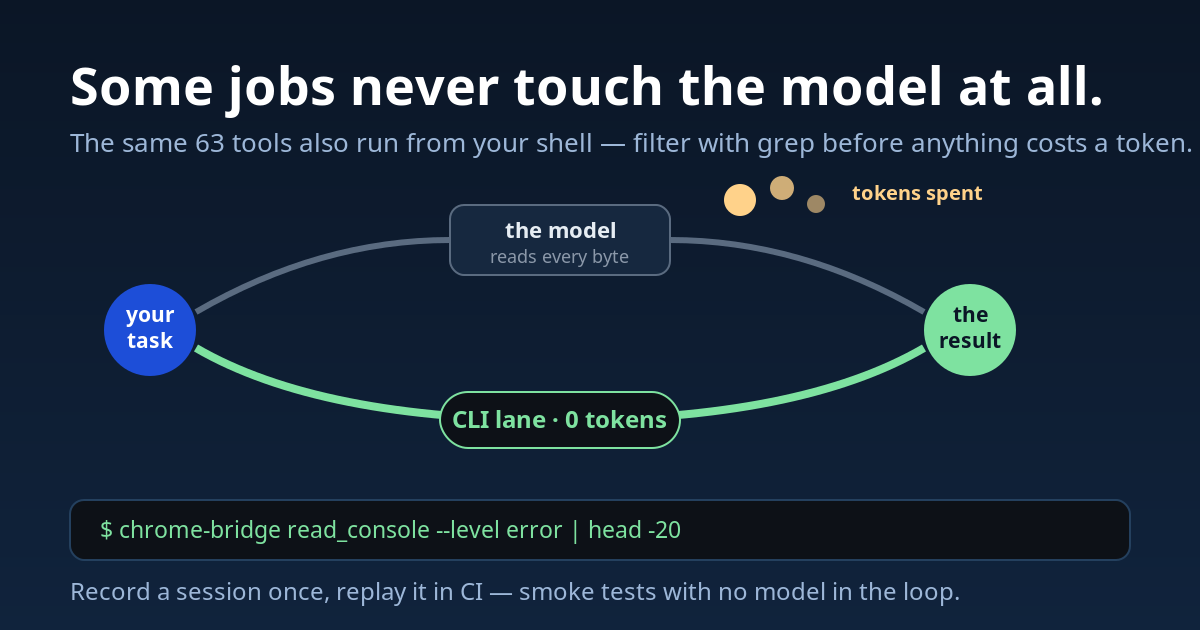
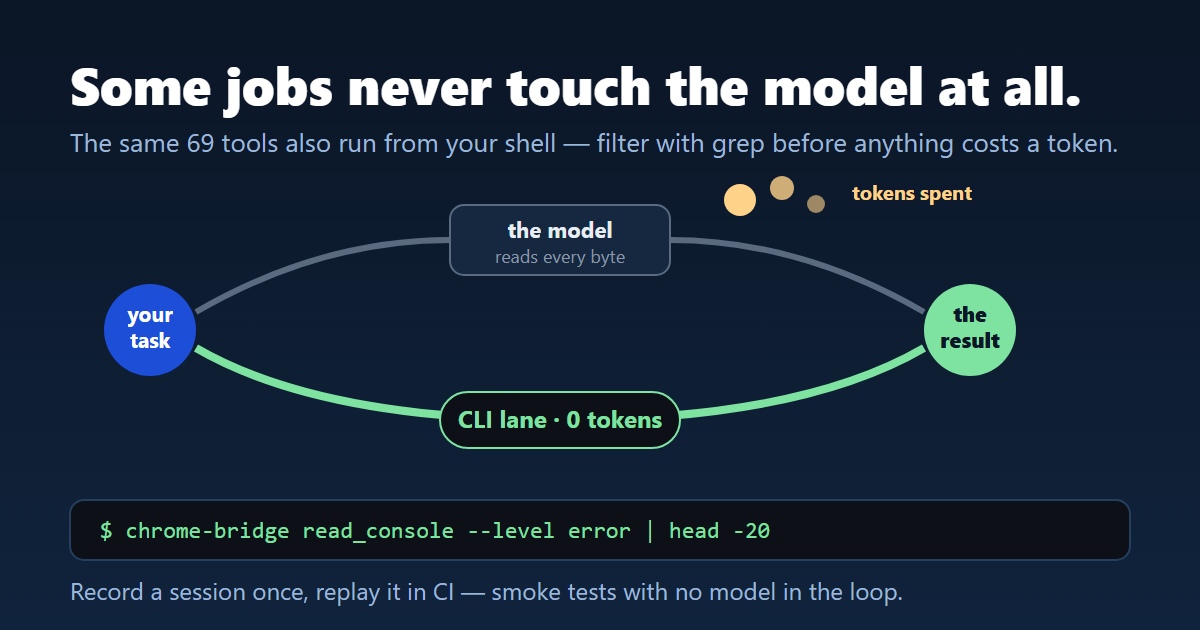
docs(readme): plugin and Web Store install first, 17/10 paired set, numbers from the code (69 tools, 46 default, 22 always loaded)
Quickstart starts from /plugin install --marketplace (also from a shell,
2.1.292+) and the Web Store; source, Windows, Chrome 135-137 and the double
registration move into <details>. The benchmark table cites the 17/10 set on
Claude Code 2.1.302 (2.0-5.2x fewer turns, 3.9-6.1x lower cost, 15/15
against 14/15), also in EFFICIENCY.md with the prompt-cache caveat. WebMCP
in the opening and in the comparison; comparison corrected for screencast,
perf_trace, heap_snapshot and Playwright MCP video. Cards 1, 3 and 4 redrawn
with the same numbers; configuration and troubleshooting tables folded.

diff --git a/README.md b/README.md
@@ -4,120 +4,158 @@
 
 ![License: MIT](https://img.shields.io/badge/license-MIT-green) ![Node 18+](https://img.shields.io/badge/node-%E2%89%A518-brightgreen) ![Chrome 135+](https://img.shields.io/badge/chrome-%E2%89%A5135-blue) ![Tests](https://img.shields.io/badge/tests-388%20unit%20%2B%2041%20e2e-brightgreen) [![Chrome Web Store](https://img.shields.io/badge/web%20store-published-blue)](https://chromewebstore.google.com/detail/chrome-bridge-for-claude/bioknpaeahidbelaljjohjofiloeodmb) [![Chrome Bridge MCP on mcprush](https://mcprush.com/badge/chrome-bridge-mcp/score.svg)](https://mcprush.com/to/chrome-bridge-mcp?ref=badge)
 
-**Claude Code borrows a tab from the Chrome you are already using — signed in,
-with your extensions and your cookies — works in it, and hands it back. What
-only a person can do (a login, a 2FA code, a CAPTCHA, a choice) comes back to
-you through `handoff`: a banner in the page, you act, the agent continues.**
+**Claude Code drives the Chrome you are already using — signed in, with your
+extensions and your cookies. 69 tools: navigation, forms, DOM inspection,
+network mocking, visual regression, audits, performance traces and the
+WebMCP tools a page declares. Self-hosted, local-only, no paid plan, works on
+ChromeOS.**
 
-Measured against the official browser extension (paired runs, 29/09/2026, n=5
-per task, same model): filling a form, 4.7× fewer turns and 2.8× lower cost;
-finding one row in a 1,500-row table, 2.3× fewer turns and 3.4× lower cost;
-debugging a broken page, 9.3× fewer turns and 4.3× lower cost. 15 correct
-answers out of 15, against 12 ([bench/RESULTS.md](bench/RESULTS.md)). ~3× the toolset and no paid plan. 60
-web-development tools (navigation, DOM inspection, visual regression, audits,
-network mocking) over a local WebSocket bridge, plus a headless instance for
-CI. Self-hosted, local-only. Works on ChromeOS.
+Measured against the official Claude in Chrome extension on the same tasks
+(paired runs, 17/10/2026, Claude Code 2.1.302, n=5 per task, medians):
 
-![The same form filled in 3 turns instead of 14 — 4.7× fewer turns on the form, 2.8-4.3× lower cost on form, 1,500-row table and debugging (paired runs, 29/09/2026, n=5)](assets/readme/card1-race.png)
+| Task | Chrome Bridge | Claude in Chrome | Fewer turns | Lower cost |
+|---|---|---|---:|---:|
+| Fill a form | 3 turns · $0.043 | 15 turns · $0.236 | **5.0×** | **5.5×** |
+| Find one row in a 1,500-row table | 3 turns · $0.039 | 6 turns · $0.154 | **2.0×** | **3.9×** |
+| Debug a broken page | 6 turns · $0.091 | 31 turns · $0.559 | **5.2×** | **6.1×** |
+
+15 correct answers out of 15, against 14. Method, every run and the caveats in
+[docs/EFFICIENCY.md](docs/EFFICIENCY.md).
 
 ## Quickstart
 
-**Requires** Node.js 18+ and Chrome 135+.
+1. In a Claude Code session:
+   ```
+   /plugin install chrome-bridge --marketplace frsorrentino/chrome-bridge
+   ```
+   From a shell, the same: `claude plugin install chrome-bridge --marketplace frsorrentino/chrome-bridge`.
+2. Add the extension from the [Chrome Web
+   Store](https://chromewebstore.google.com/detail/chrome-bridge-for-claude/bioknpaeahidbelaljjohjofiloeodmb).
+3. Restart Claude Code.
+
+Then ask for something like *"open localhost:3000, run an accessibility audit
+and find the Sign Up button"*: Claude Code calls `navigate`, `audit` and
+`find_text`. Because `navigate` already returns element refs,
+`click(ref="n1")` follows with no discovery turn in between.
+
+For `execute_js`, enable **Allow user scripts** in `chrome://extensions` →
+Chrome Bridge → Details.
+
+The plugin registers the MCP server from npm together with the recipes skill.
+Requires Node.js 18+ and Chrome 135+.
+
+<details>
+<summary>Older Claude Code, from source, Windows, Chrome 135-137, one path only</summary>
+
+**Older Claude Code.** The one-command install needs Claude Code 2.1.275+ in a
+session and 2.1.292+ from a shell. Before that, add the marketplace first:
+`/plugin marketplace add frsorrentino/chrome-bridge`, then
+`/plugin install chrome-bridge@chrome-bridge` (from a shell:
+`claude plugin marketplace add frsorrentino/chrome-bridge`, then
+`claude plugin install chrome-bridge@chrome-bridge`).
+
+**From source:**
 
 ```bash
 git clone https://github.com/frsorrentino/chrome-bridge.git
 cd chrome-bridge && ./install.sh
 ```
 
-1. Open `chrome://extensions`, enable **Developer mode**, click **Load
-   unpacked**, select the `extension/` folder.
-2. Restart Claude Code.
-
-Then ask for something like *"open localhost:3000, run an accessibility audit
-and find the Sign Up button"*: Claude Code calls `navigate`,
-`audit` and `find_text`. Because `navigate` already returns
-element refs, `click(ref="n1")` follows with no discovery turn in between.
-
-> **On ChromeOS/Crostini** install from the [Chrome Web
-> Store](https://chromewebstore.google.com/detail/chrome-bridge-for-claude/bioknpaeahidbelaljjohjofiloeodmb)
-> instead: an unpacked extension is dropped on every reboot, because the
-> container isn't mounted when Chrome starts.
-
-> **On Windows** `install.sh` does not run from PowerShell or cmd. Use the
-> plugin path below (`claude plugin marketplace add frsorrentino/chrome-bridge`,
-> then `claude plugin install chrome-bridge@chrome-bridge`) with the extension
-> from the Web Store, or run `install.sh` from Git Bash. The plugin's error
-> log hooks run in Git Bash, as Claude Code runs every hook, and need Python
-> 3.8+ as `python3`, `python` or `py` (the Microsoft Store `python3` alias is
-> skipped); without Python they stay silent and the tools work the same. For
-> launch mode see `CHROME_BRIDGE_BROWSER` below: Google Chrome cannot load the
-> extension there, Microsoft Edge can.
-
-`install.sh` registers the MCP server with `--scope user`. To do it by hand:
+Then open `chrome://extensions`, enable **Developer mode**, click **Load
+unpacked**, select the `extension/` folder, and restart Claude Code.
+`install.sh` registers the MCP server with `--scope user`; by hand:
 `claude mcp add --scope user chrome-bridge node /path/to/server/index.js`.
-For `execute_js`, enable **Allow user scripts** in `chrome://extensions` →
-Chrome Bridge → Details (on Chrome 135-137, enable Developer Mode instead).
+On ChromeOS/Crostini use the Web Store extension instead: an unpacked one is
+dropped on every reboot, because the container isn't mounted when Chrome
+starts.
 
-**As a plugin, without a clone:** inside a Claude Code session,
-`/plugin install chrome-bridge --marketplace frsorrentino/chrome-bridge`
-(one command, Claude Code 2.1.275+; on older versions `/plugin marketplace add
-frsorrentino/chrome-bridge` then `/plugin install chrome-bridge@chrome-bridge`).
-From a shell, `claude plugin install` has no `--marketplace` option: run
-`claude plugin marketplace add frsorrentino/chrome-bridge`, then
-`claude plugin install chrome-bridge@chrome-bridge`. Either way the plugin
-registers the MCP server from npm (all capabilities) together with the recipes
-skill; clients that read [Agent Plugins 1.0](https://agent-plugins.org) get the
-same from `plugin.json` + `mcp.json`. The extension still comes from the Web
-Store or `extension/`. Pick one path: the plugin and `install.sh` would
-register the same server twice, and so would a plugin added from the
-[Anthropic directory](https://claude.ai/directory) on claude.ai (it reaches
-Claude Code as `chrome-bridge@synced`) next to a marketplace install. In
-claude.ai chat the plugin loads only the recipes skill: the tools need Claude
-Code, or Cowork running on your computer, where the local MCP server can start.
+**Windows.** `install.sh` does not run from PowerShell or cmd: use the plugin
+with the Web Store extension, or run `install.sh` from Git Bash. The plugin's
+error log hooks run in Git Bash, as Claude Code runs every hook, and need
+Python 3.8+ as `python3`, `python` or `py` (the Microsoft Store `python3` alias
+is skipped); without Python they stay silent and the tools work the same. For
+launch mode see `CHROME_BRIDGE_BROWSER` below: Google Chrome cannot load the
+extension there, Microsoft Edge can.
+
+**Chrome 135-137.** `execute_js` needs Developer Mode instead of the **Allow
+user scripts** toggle.
+
+**One path only.** The plugin and `install.sh` would register the same server
+twice, and so would a plugin added from the [Anthropic
+directory](https://claude.ai/directory) on claude.ai (it reaches Claude Code as
+`chrome-bridge@synced`) next to a marketplace install. In claude.ai chat the
+plugin loads only the recipes skill: the tools need Claude Code, or Cowork
+running on your computer, where the local MCP server can start. Clients that
+read [Agent Plugins 1.0](https://agent-plugins.org) get the same from
+`plugin.json` + `mcp.json`.
+
+</details>
+
+![The same form filled in 3 turns instead of 15 — 5× fewer turns on the form, 3.9-6.1× lower cost on form, 1,500-row table and debugging (paired runs, 17/10/2026, n=5)](assets/readme/card1-race.png)
+
+## Why it takes fewer turns
+
+- **Refs, not screenshots.** `navigate` returns the page's interactive
+  elements as short refs (`n1`, `n2`…), so the next call is the click, not a
+  screenshot and a coordinate guess.
+- **One call for a whole form.** `fill_form` fills N fields and submits in the
+  same call.
+- **Filtering on the server.** `extract_table` with `where` and `columns`
+  returns the matching rows of a 1,500-row table, not the table.
+- **Debugging starts with the answer.** `navigate` reports the first console
+  error mapped to its source line and the failed requests with their status;
+  `get_css_styles` names the rule behind a style and flags undefined CSS
+  variables.
+- **Deferred loading.** 22 tools stay in context; the rest of the 46 in the
+  default set wait behind Claude Code's tool search (2.1.285+), and loading
+  one mid-session does not invalidate the prompt cache. The 23 tools in seven
+  optional groups switch on mid-session with `get_status({enable: [...]})`,
+  no restart.
 
 ## Your browser, your login
 
 No blank profile, no debugging port, no cloud browser. The extension runs in
 your Chrome, so every site you are signed into is already open to the agent:
-webmail, the hosting panel, a client's back office, a staging site behind
-basic auth. Tabs the agent opens are marked as its own and closed when the
-session ends; your tabs stay yours.
+webmail, the hosting panel, a back office, a staging site behind basic auth.
+Tabs the agent opens are marked as its own and closed when the session ends;
+your tabs stay yours. Several Claude Code sessions share the same browser: the
+second one becomes a relay on the first one's bridge.
 
-When a page asks for something only you can give, the agent does not guess and
-never types credentials. `handoff` shows a banner in the page with what it
-needs — "complete the login with your 2FA, then press Done", "click the button
-you mean" — waits for you, and continues from where you left it, redirects
-included. It can also ask a question in the banner and read your typed reply,
-or let you pick one or more elements on the page.
+**WebMCP.** When a page declares its own tools through
+[WebMCP](https://github.com/webmachinelearning/webmcp), `navigate` and
+`get_interactives` say so in one line, `webmcp_tools` lists them and
+`webmcp_call` runs one, with a timeout. Needs the WebMCP flag or origin trial
+in Chrome; `get_status` reports whether it is on.
 
-## Why Chrome Bridge?
+**Limits you can set.** `upload_file` refuses keys and credentials
+(`~/.ssh`, `.env*`, `*.pem`, …) and `--read-root` fences it to one directory;
+`--write-root` fences every path the model writes; `--no-js` removes arbitrary
+JavaScript. The agent never types credentials: for a login, a 2FA code or a
+choice, `handoff` shows a banner in the page and waits for you.
+
+## Compared
 
 | | Chrome Bridge | Claude in Chrome | Chrome DevTools MCP | Playwright MCP |
 |---|---|---|---|---|
 | **ChromeOS / Crostini** | **Yes** (real host) | No | Container only | Container only |
-| **Tools** | **60** (43 core) | 22 | 29 default (56 with flags) | 24 core (71 total) |
+| **Tools** | **69** (46 default, 22 always loaded) | 22 | 29 default (56 with flags) | 24 core (71 total) |
 | **Requires paid plan** | **No** | Yes (Pro+) | No | No |
+| **WebMCP (tools the page declares)** | **Yes** | No | Yes | Yes |
 | **Network mocking** | **Yes** (stub/headers) | No | No | Yes |
 | **Visual regression** | **Yes** (`screenshot_diff`) | No | No | No |
 | **Audits (a11y/SEO/sec)** | **Yes** (one call, report on disk) | No | Lighthouse | No |
+| **Performance trace** | **Yes** (`perf_trace`, `lighthouse`) | No | Yes | Playwright trace only |
+| **Screen recording** | **Yes** (`screencast`, mp4/webm) | Yes (GIF) | Partial | Yes (video) |
+| **Heap snapshot** | **Yes** (launch mode) | No | Yes | No |
+| **Breakpoints** | No | No | **Yes** | No |
 | **Headless / CI** | **Yes** | No | Yes | Yes |
-| **GIF / video** | No | **Yes** | Partial | No |
-| **Breakpoints / heap** | No | No | **Yes** | No |
 
 Codex for Chrome (OpenAI, May 2026) sits in the Claude in Chrome column: an
 official extension with the `debugger` permission, macOS and Windows only,
 the ChatGPT app required. Claude in Chrome documents Linux desktop since
-September 2026; ChromeOS and WSL stay out. Competitor figures measured on
-2026-09-01 and 2026-09-11 (`docs/analisi-2026-09-11-concorrenti.md`).
-
-It wins on **round trips** — short element refs instead of the
-screenshot-and-click loop, `fill_form` filling N fields in one call — and, on
-big pages, on **payload**: table filtering is done server-side. On the form, per single turn it actually costs
-slightly *more*.
-
-The full benchmark — method, every raw run including the unfavourable ones, and
-what the harness can't measure — is in
-[docs/EFFICIENCY.md](docs/EFFICIENCY.md).
+September 2026; ChromeOS and WSL stay out. Competitor tool counts measured on
+2026-09-01 and 2026-09-11 (`docs/analisi-2026-09-11-concorrenti.md`); WebMCP, recording and
+tracing rows checked in their documentation on 2026-10-28.
 
 ![Claude checks its own work: console errors, pixel diffs, network mocking and audits](assets/readme/card5-devloop.png)
 
@@ -165,11 +203,12 @@ user-script toggle isn't available.
 ## Tools
 
 69 in total. `core` (46 tools: every tool used in 101 real sessions, plus the
-two WebMCP tools) loads by default; the other 23 sit in seven optional caps that the agent switches on
-mid-session with `get_status({enable: ["visual"]})`, with no restart
-(`--caps` still sets them at startup).
+two WebMCP tools) loads by default, 22 of them always in context; the other 23
+sit in seven optional caps that the agent switches on mid-session with
+`get_status({enable: ["visual"]})`, with no restart (`--caps` still sets them
+at startup).
 
-![69 tools in eight groups, from clicking a button to tracing a page](assets/readme/card4-toolbox.png)
+![69 tools in nine groups, from clicking a button to tracing a page](assets/readme/card4-toolbox.png)
 
 | Group | N | What's in it |
 |---|---|---|
@@ -177,6 +216,7 @@ mid-session with `get_status({enable: ["visual"]})`, with no restart
 | Interaction | 11 | `click`, `fill_form`, `upload_file`, dialogs, clipboard |
 | DOM & Inspection | 12 | `read_page`, `extract`, `extract_table`, `query_dom`, `get_css_styles`, `watch_dom` |
 | Debugging & Network | 8 | `execute_js`, console, network log, mocking, `track_events` |
+| WebMCP | 2 | `webmcp_tools`, `webmcp_call`: the tools a page declares |
 | Visual & Responsive | 5 | `screenshot_diff`, viewport and zoom, media emulation |
 | Audits | 2 | `audit` (a11y, keyboard, SEO, security, links, vitals, css, resources, cache in one call), `cookie_audit` |
 | State, Storage & Files | 10 | storage, fixtures, MHTML, `capture_downloads` (exports saved with no "Save as" dialog), recording, `assert` |
@@ -199,7 +239,8 @@ executes commands through Chrome APIs. User scripts (`execute_js`) run via
 
 ## Configuration and security
 
-Environment variables, each with a matching CLI flag:
+<details>
+<summary>Environment variables, each with a matching CLI flag</summary>
 
 | Variable | Default | Notes |
 |---|---|---|
@@ -213,6 +254,8 @@ Environment variables, each with a matching CLI flag:
 | `CHROME_BRIDGE_BROWSER` | unset | Launch mode only: the browser binary, e.g. `C:\Program Files (x86)\Microsoft\Edge\Application\msedge.exe`. Unset: the first of Chromium, Edge, Brave, Google Chrome found in the standard paths (on Linux Chromium, then Google Chrome). Google Chrome 137+ cannot load the extension |
 | `CHROME_BRIDGE_OBSERVE` | unset | `off` stops the local error log below. The plugin sets `hook`: its hooks keep the log and the server stays out of it |
 | `CHROME_BRIDGE_WRITE_ROOT` / `--write-root` | unset | Every path the model chooses (`save_to`, `output_path`, exports) must be under this directory, checked before the browser does any work; the server's own state under `~/.config/chrome-bridge` stays writable. The CLI is your shell and is not restricted |
+
+</details>
 
 The bridge binds loopback, accepts extension connections only from a
 `chrome-extension://` origin, and — when a token is set — requires it on both
@@ -296,6 +339,9 @@ count.
 
 ## Troubleshooting
 
+<details>
+<summary>Symptoms and fixes</summary>
+
 | Symptom | Cause / fix |
 |---|---|
 | `Chrome extension not connected` | Extension disabled, or its port differs from the server's. The error names the actual host/port; check them in the popup (⚙). |
@@ -314,11 +360,14 @@ count.
 | `claude mcp get` shows no command, arguments or environment | Expected with the plugin: since Claude Code 2.1.285 it hides them for stdio servers that plugins provide (variable names stay). `get_status` reports the server and extension versions, mode, host, port and caps; `/mcp` shows the connection. |
 | Popup says «In attesa: un altro browser è collegato», `get_status` lists `refused_browsers` | Two browsers with the extension reach the same port. The one already connected keeps the bridge; the other retries every 15 s and takes over when the first disconnects. `get_status` → `browser` names the connected one. Before this, the last one to connect took over silently. |
 
+</details>
+
 ## Documentation
 
 - [docs/TOOLS.md](docs/TOOLS.md) — all 69 tools, by group
 - [docs/CAPABILITIES.md](docs/CAPABILITIES.md) — what the bridge gets past and what it does not, one dated state per wall
 - [docs/EFFICIENCY.md](docs/EFFICIENCY.md) — the benchmark and the design behind it
+- [docs/misure/2026-10-token-cache-vs-claude-in-chrome.md](docs/misure/2026-10-token-cache-vs-claude-in-chrome.md) — the 17/10 paired set and the prompt-cache breakdown (Italian)
 - [docs/PERFORMANCE.md](docs/PERFORMANCE.md) — latency per tool on the real path, `npm run bench:latency`
 - [bench/RESULTS.md](bench/RESULTS.md) — raw runs and inclusion rule
 - [CHANGELOG.md](CHANGELOG.md)

diff --git a/docs/EFFICIENCY.md b/docs/EFFICIENCY.md
@@ -2,6 +2,31 @@
 
 ## The benchmark
 
+### Latest set: 17/10/2026, Claude Code 2.1.302
+
+Same model (Claude Sonnet 5), same tasks, arms alternated run by run, **all
+runs included** — n=5 per arm and per task, Chrome Bridge at commit `ae8606c`
+with its default core set. Medians, range in brackets.
+
+| Task | Chrome Bridge | Claude in Chrome | Ratio |
+| :--- | :--- | :--- | :--- |
+| **Form fill** | 3 turns (3) / $0.043 | 15 turns (14-15) / $0.236 | **5.00× turns, 5.48× cost** |
+| **1500-row table lookup** | 3 turns (3-4) / $0.039 | 6 turns (5-7) / $0.154 | **2.00× turns, 3.94× cost** |
+| **Debug a broken page** | 6 turns (4-8) / $0.091 | 31 turns (21-39) / $0.559 | **5.17× turns, 6.14× cost** |
+
+Correct answers: 15/15 for Chrome Bridge, 14/15 for Claude in Chrome.
+
+Part of the cost ratio is not design: on Claude Code 2.1.302 Claude in Chrome
+rewrites about 19k tokens of prompt cache at its first tool search (15 runs out
+of 15), Chrome Bridge never does (0 of 15). Should Claude Code change that, the
+cost ratio would fall towards 2-4×; the turn counts would not move. Method,
+cache breakdown and raw figures, in Italian:
+[misure/2026-10-token-cache-vs-claude-in-chrome.md](misure/2026-10-token-cache-vs-claude-in-chrome.md).
+Absolute costs are lower than on 29/09 for both arms: these runs were on a
+machine whose startup hooks keep the session prompt cacheable.
+
+### Previous set: 29/09/2026
+
 Same model (Claude Sonnet 5), same tasks, same morning and same `claude`
 version, **all runs included** — n=5 per arm and per task, 29/09/2026, Chrome
 Bridge 1.25.1 (commit `32b230c`) with its default core set (43 at the time).
